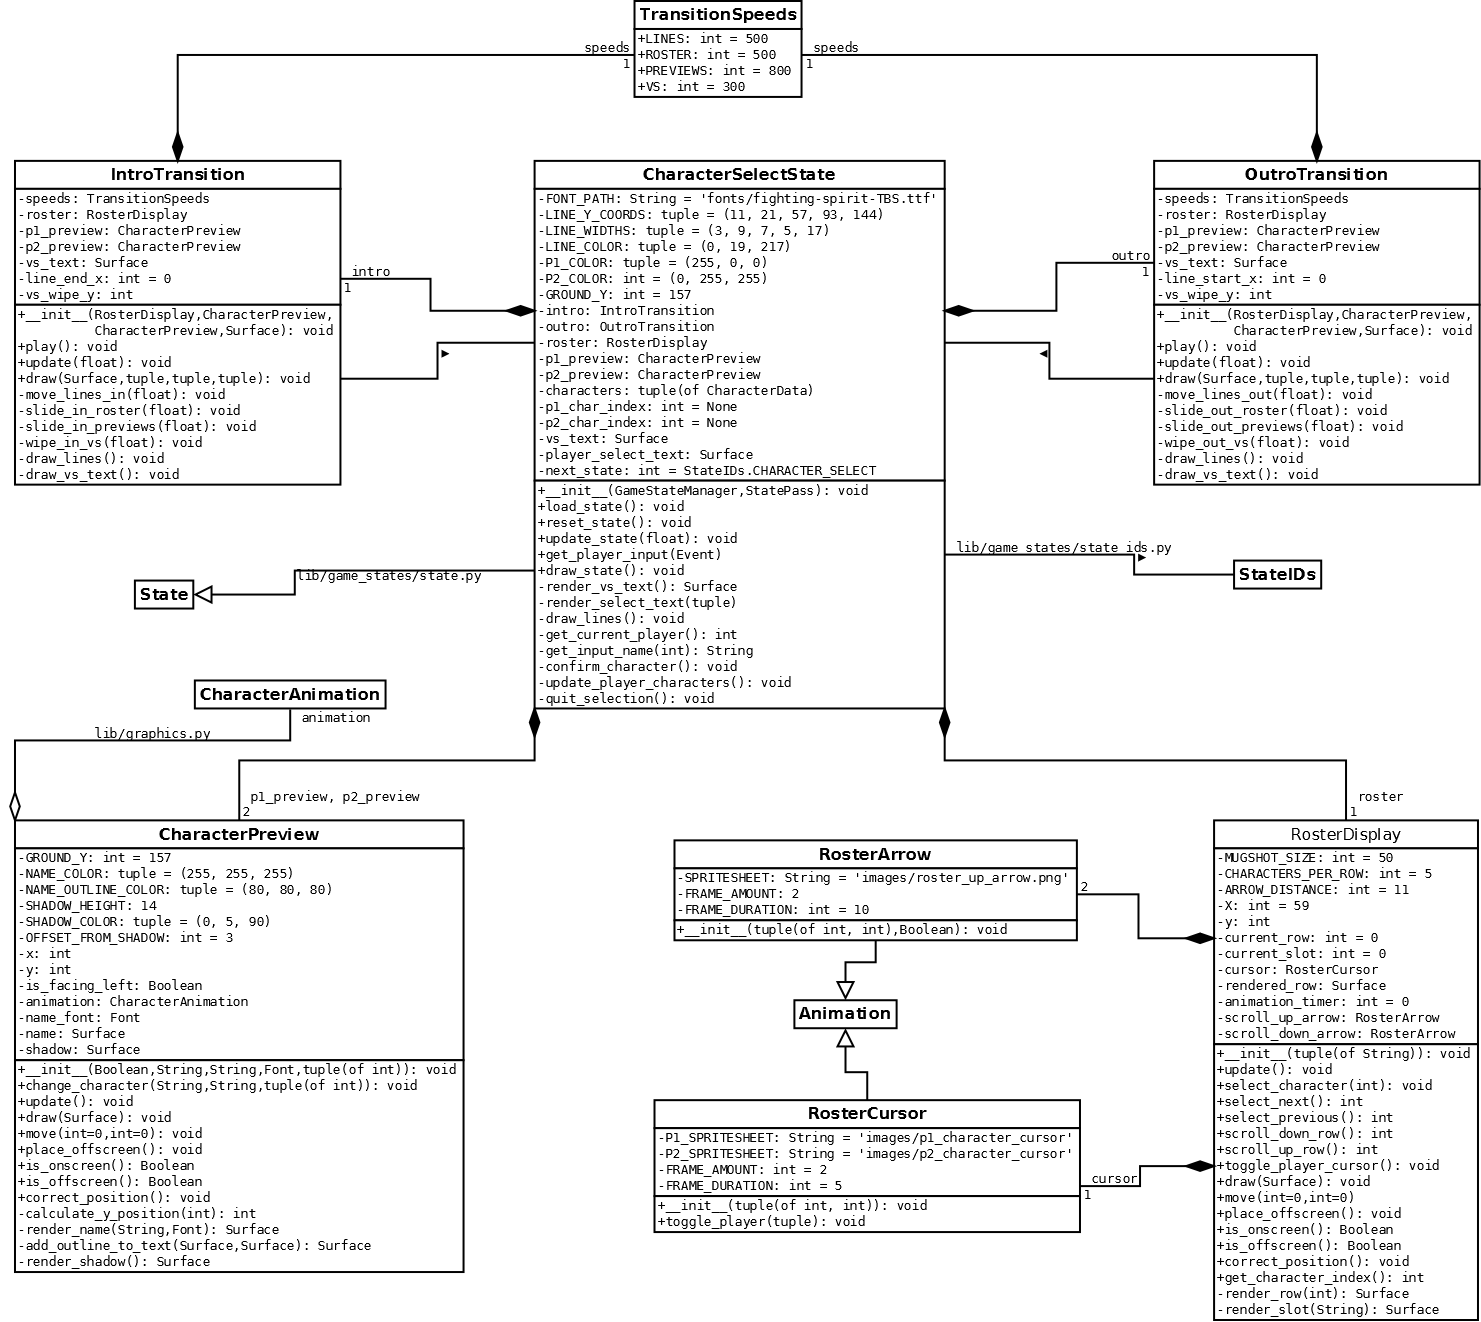
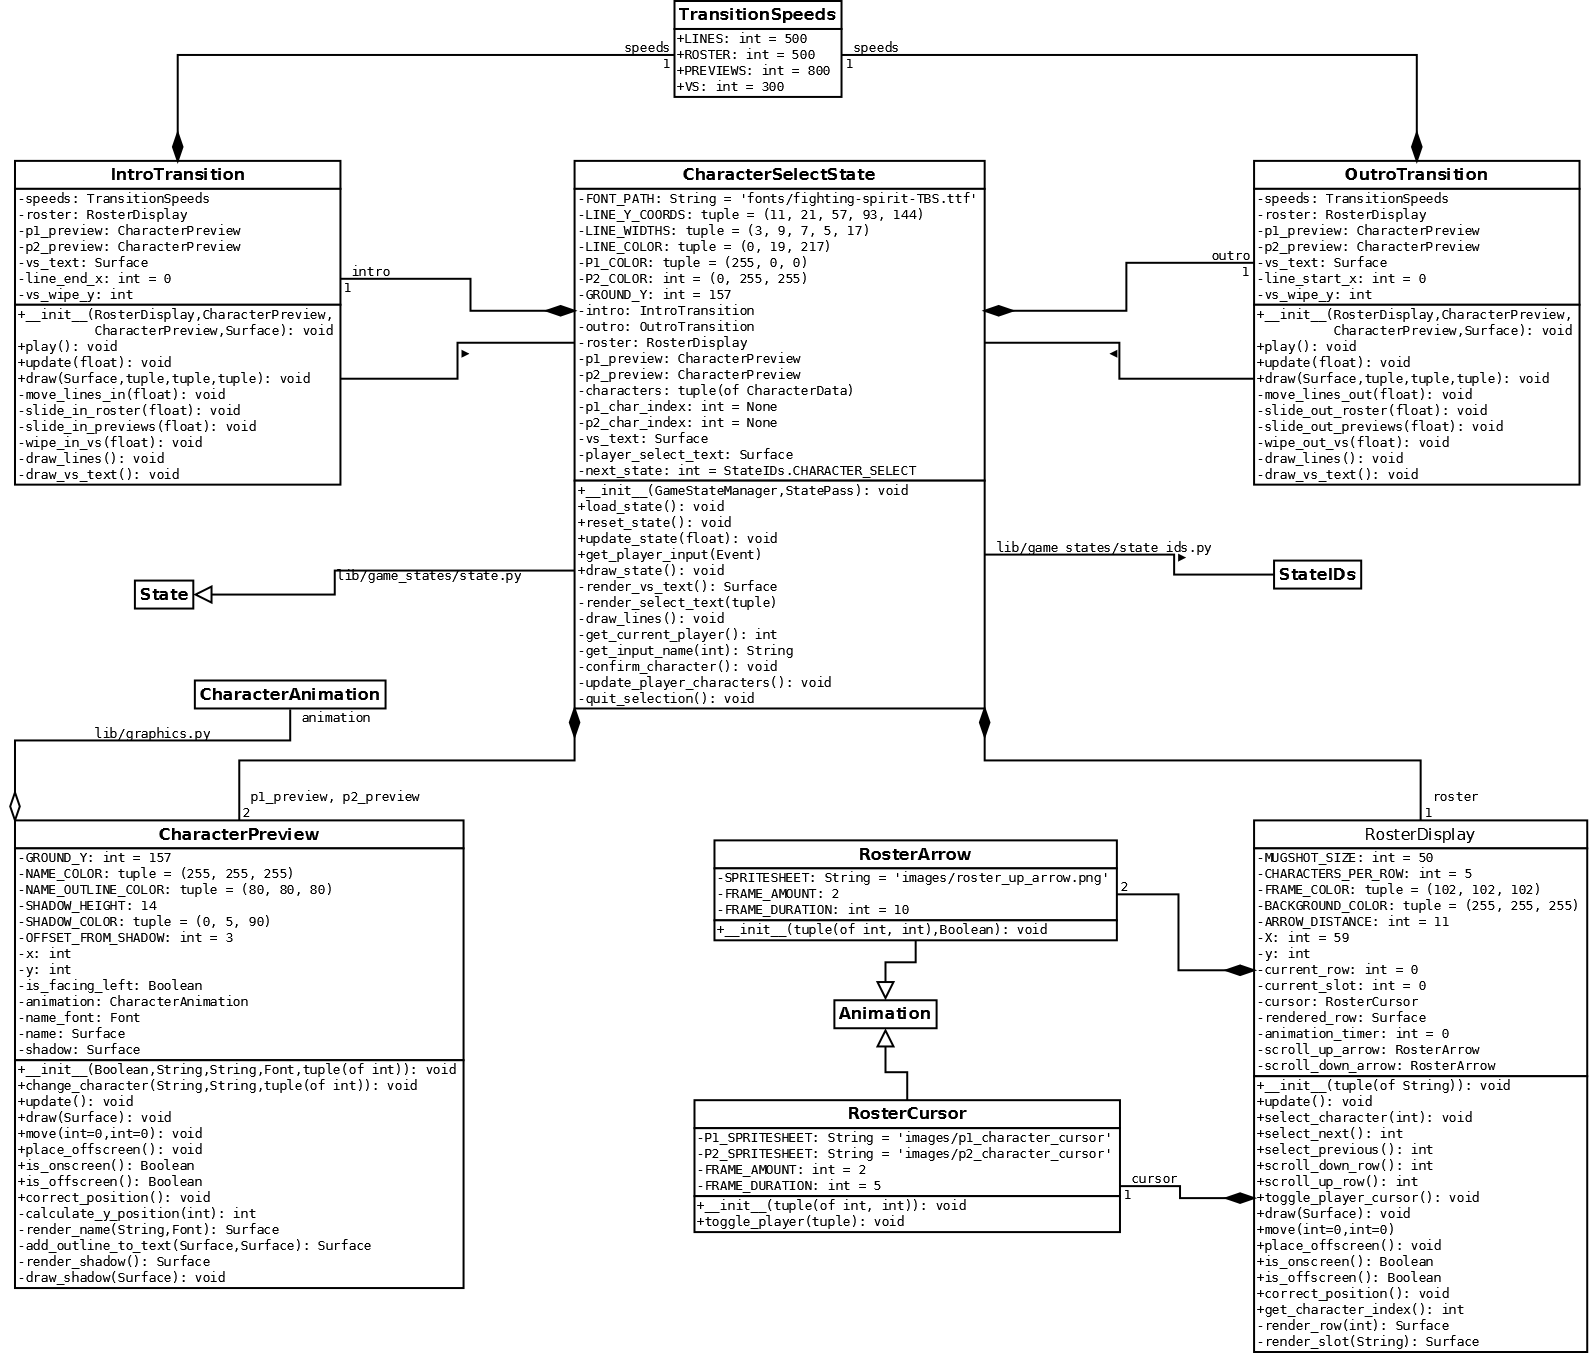
CharacterPreview: Add draw_shadow()

diff --git a/lib/game_states/character_select_state.py b/lib/game_states/character_select_state.py
@@ -188,6 +188,18 @@ class CharacterPreview(object):
         """Update the character animation."""
         self.animation.update()
 
+    def draw_shadow(self, parent_surf):
+        """Draw the shadow at the character's feet (or, where their
+        feet would be in case they're feetless).
+
+        Args:
+            parent_surf: The Surface upon which the shadow will be
+                drawn.
+        """
+        char_bottom = self.y + self.animation.get_height()
+        y = char_bottom - self.shadow.get_height() + self.OFFSET_FROM_SHADOW
+        parent_surf.blit(self.shadow, (self.x, y))
+
     def move(self, dx=0, dy=0):
         """Move the animation around the screen space.
 
